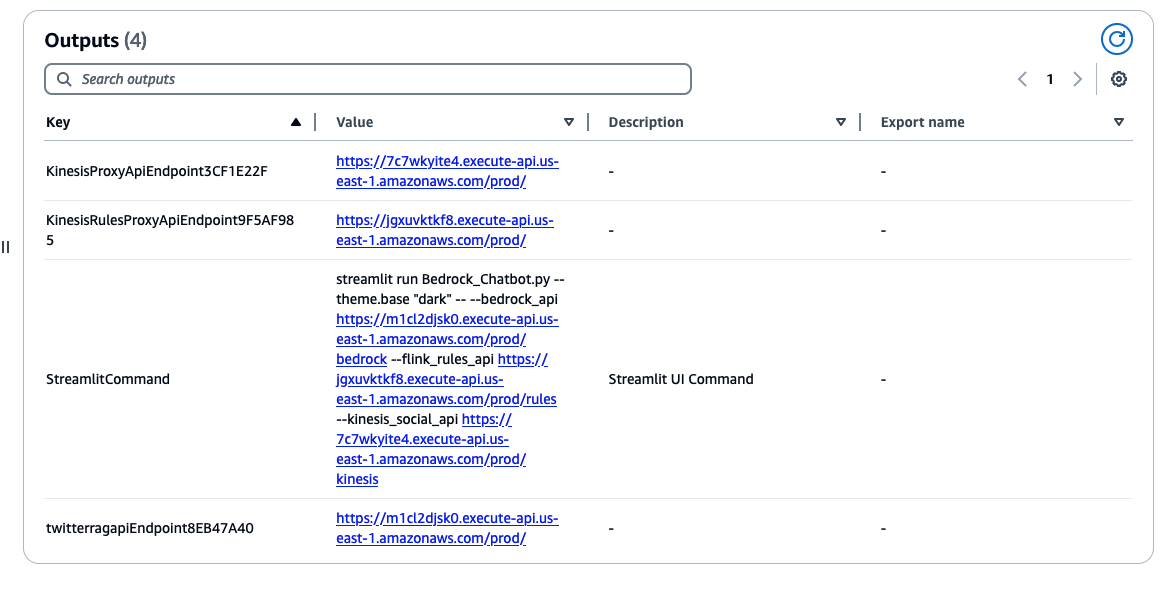
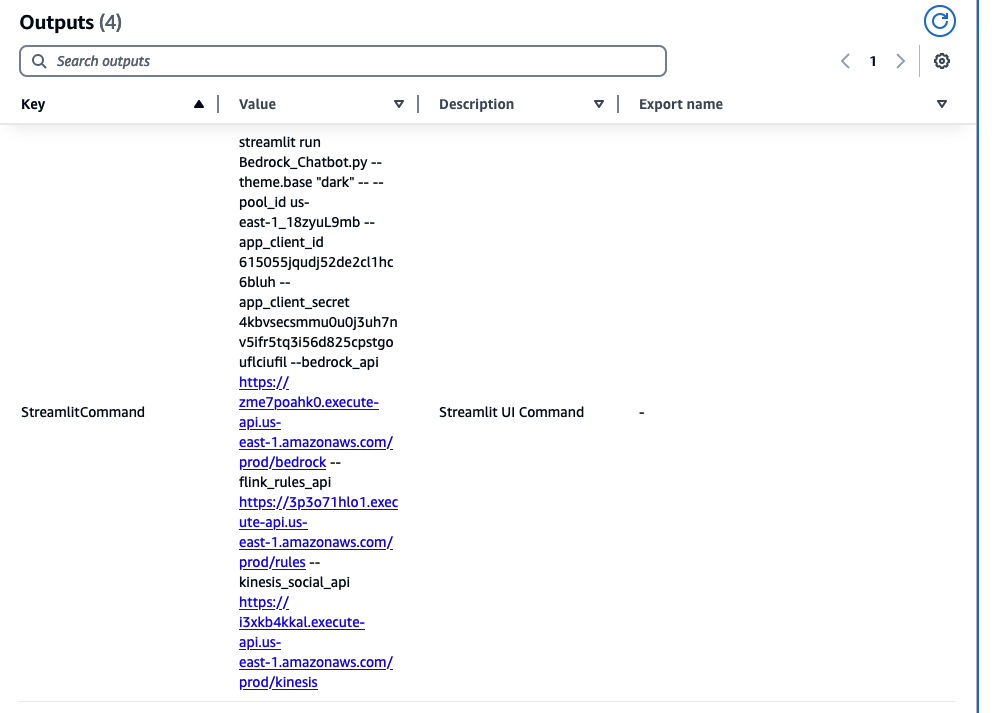
updating read me

diff --git a/README.md b/README.md
@@ -8,7 +8,8 @@ In this AWS Sample you will deploy an AWS Architecure that is able to combine st
 
 ## Solution Description
 
-1.	User inputs using the front-end application, hosted locally developed using Streamlit framework, the query terms, API Key and frequency of requests to be made to the X - Twitter API in a Streamlit front end UI. We also provide a front-end of a Kinesis Social Media Application where you can also send messages to be processed in case of not having a Twitter Developer Account
+1.	User logs in using Amazon Cognito User. Cognito will be used to authenticate all API Gateway Calls
+2.  User inputs using the front-end application, hosted locally developed using Streamlit framework, the query terms, API Key and frequency of requests to be made to the X - Twitter API in a Streamlit front end UI. We also provide a front-end of a Kinesis Social Media Application where you can also send messages to be processed in case of not having a Twitter Developer Account
 2.	Amazon Managed Service for Apache Flink is used to consume and process the tweets in real time and stores in state the parameters for making the API requests received from the front-end application
 3.	The streaming application using Flink’s Asynchronous Async I/O invokes Amazon Titan Embeddings Model hosted by Amazon Bedrock to embed the tweets.
 4.	Amazon Bedrock responds with the embeddings of the tweets
@@ -83,14 +84,17 @@ a.	Claude Instant
 ### Use CDK to create and deploy the solution stack
 
 We use AWS CDK CLI to deploy the Solution. The CDK will deploy the following:
+-   Amazon Cognito User Pool, App Client and User
 -	Kinesis Data Streams for receiving rules for pulling data from Twitter API
 -	Kinesis Data Streams for receiving user generated messages from StreamLit Application
 -	Amazon API Gateway to send events to Rules Kinesis Data Streams
 -	Amazon API Gateway to send custom messages to Kinesis Data Streams
 -	Amazon OpenSearch for Vector Database
+-   AWS Lambda Function for creating indexes in Amazon OpenSearch
 -	AWS Lambda Function with LangChain for invoking Amazon Bedrock and do semantic Search in Opensearch
--	API Gateway for invoking the Lambda Function.
+-	Amazon API Gateway for invoking the Lambda Function.
 -	Amazon Managed Service for Apache Flink, for processing the tweets and invoking Amazon Bedrock to do the Embeddings.
+-   AWS Lambda to start Managed Flink Application
 
 1. Git Clone the repository
 
@@ -98,10 +102,10 @@ We use AWS CDK CLI to deploy the Solution. The CDK will deploy the following:
 git clone <repo>
 ```
 
-1. CD into the folder
+1. CD into repo
 
 ```shell
-cd x-streaming-genai-cdk
+cd real-time-social-media-analytics-with-generative-ai
 ```
 
 3. Install libraries
@@ -240,7 +244,7 @@ With these steps we have configured the Data Ingestion part of the solution, we 
 1. In the project repository, cd into the streamlit folder
 
 ```shell
-cd streamlit/streamlit_twitter_rag
+cd streamlit
 ```
 
 In that folder you will find a Multi-Page Streamlit Application
@@ -250,10 +254,20 @@ In that folder you will find a Multi-Page Streamlit Application
 
 It follows this pattern
 ```shell
-streamlit run Bedrock_Chatbot.py --theme.base "dark" -- --bedrockApi <value> --rulesApi <value> --kinesisAPI <value>
+streamlit run Bedrock_Chatbot.py --theme.base "dark" -- --pool_id <pool_id> --app_client_id <app_client_id> --app_client_secret <app_client_secret>  --bedrockApi <value> --rulesApi <value> --kinesisAPI <value>
 ```
 
 This will open a tab in your browser. This is how we will be able to interact with our Flink Application and make questions related to the processed messages
+
+4. You will need to authenticate with the Cognito user that has been created during the CDK Deployment
+
+* Username: FlinkGenAIBedrock@example.com,
+* Password: FlinkGenAIBedrock2024!
+
+> You can create additional users in Amazon Cognito and delete this one if needed
+
+![Cognito-auth](diagrams-screenshots/cognito-auth.png "cognito-auth")
+
 
 3. If you are going to be using the Twitter API you will need to provide the following:
 
@@ -298,3 +312,10 @@ cdk destroy --all
 ## License
 
 This library is licensed under the MIT-0 License. See the LICENSE file.
+
+
+## Disclaimer
+
+In this sample, if you are going to consume data from Twitter using a developer account, you will be interacting with public data coming from the feed. This sample takes no responsibility of the comments or opinions that could be consumed from the social media application
+
+This sample is meant to be treated as an example use case where real time embeddings and RAG could add business value to analyze social media. It is not meant for production, however if needed you can leverage CDK Nag in order to identify best practices for all the services deployed in the sample.
